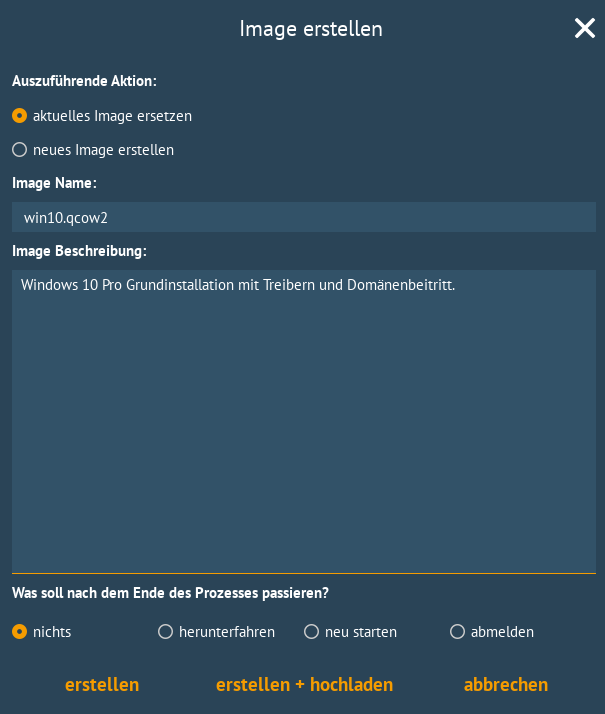
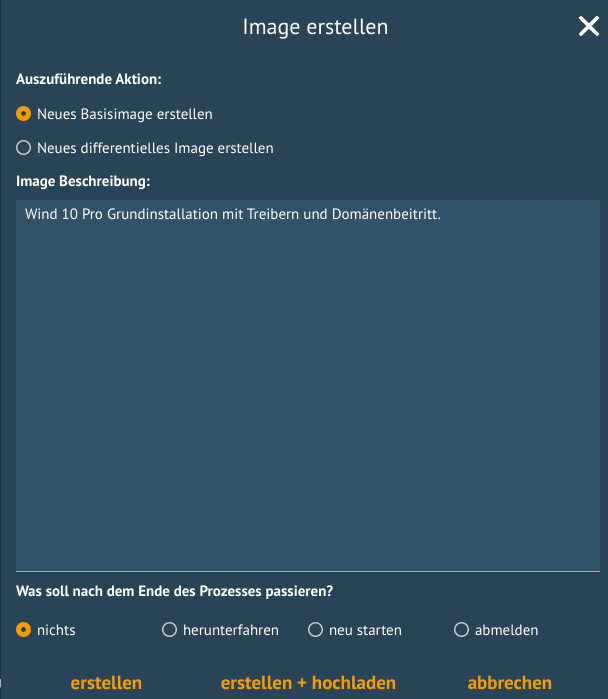
new chapter for creating differential images with linbo 4.1

diff --git a/source/clients/use_linbo4/index.rst b/source/clients/use_linbo4/index.rst
@@ -296,6 +296,112 @@ Mit diesem Dialog kann ein erstmalig genutzer Rechner registriert werden. Dafür
 
    Bitte trage für die Rechnergruppe einen Namen ohne Bindestriche `` - `` ein.
 
+LINBO Differenzielles Image erstellen
+-------------------------------------
+
+.. hint::
+
+   Seit der Version LINBO 4.1 ist es möglich, differentielle Images zu erstellen.
+
+``Differentielle Images`` bauen auf einem Vollimage eines Client-Betriebssystems auf und legen alle Änderungen / Ergänzungen seit dem letzten Image ab. Diese werden dann bei einer Synchronisation des Clients vollständig angewendet.
+
+Werden nur kleine Ergänzungen auf dem Client vorgenommen, kann ein differenzielles Image erstellt werden, um das Verteilen der Änderungen möglichst schnell für alle Clients einer Hardware-Klasse durchzuführen. Für die Aktualisierung der Clients werden so, deutlich weniger Daten via Netzwerk übertragen.
+
+Sollten für ein Basisimage bereits mehrere differenzielle Images erstellt worden sein, so kann es sinnvoll sein, wenn viel neue Software installiert wurde, diese wieder duch Erstellung eines Vollimages zu konsolidieren.
+
+Vorbereitungen
+^^^^^^^^^^^^^^
+
+Der betreffende Muster-Client wurde entsprechend angepasst und alle erforderlichen Schritte zur Erstellung eines Images auf Client-Seite durchgeführt.
+
+Für Linux-Clients ist z.B. der Befehl
+
+.. code::
+
+  sudo linuxmuster-linuxclient7 prepare-image
+
+auszuführen.
+
+Danach ist der Client neu zu starten.
+
+Image erstellen
+^^^^^^^^^^^^^^^
+
+Erscheint die LINBO GUI:
+
+.. figure:: media/linbo-diff-images/01-linbo-gui.png
+   :align: center
+   :alt: Linbo GUI
+
+
+Wähle rechts das Werkzeug-Icon aus.
+
+.. figure:: media/linbo-diff-images/02-tools-icon.png
+   :align: left
+   :alt: Tools Icon
+
+Es erscheint ein neues Fenster, in dem Du das Passwort des Linbo-Admins eingeben musst, um dich zu authentifizieren.
+
+.. figure:: media/linbo-diff-images/03-linbo-password.png
+   :align: center
+   :alt: Linbo Password
+
+Das Kennwort ist bei Eingabe nicht sichtbar. Klicke auf ``Anmelden``. Es erscheint das Werkzeug-Menü.
+
+.. figure:: media/linbo-diff-images/04-linbo-tools-menue.png
+   :align: center
+   :alt: Linbo Tools Menue
+
+Zur Erstellung eines differenziellen Images klicke nun auf das große Icon zur Erstellung eines Images.
+
+.. figure:: media/linbo-diff-images/05-icon-new-image.png
+   :align: center
+   :alt: Linbo New Image
+
+Es erscheint das Menü zur Erstellung neuer oder differenzieller Images.
+
+.. figure:: media/linbo-diff-images/06-menue-new-image.png
+   :align: center
+   :alt: Linbo Menue for Imaging
+
+
+Wähle die Option ``Neues differenzielles Image erstellen`` aus, trage eine nachvollziehbare Beschreibung für das Image als Text ein.
+
+Wähle zur Erstellung des differenziellen Images den Eintrag ``erstellen + hochladen`` aus, damit zuerst auf dem Client das Image erstellt und dieses im Anschluss auf den Server geladen wird.
+
+.. figure:: media/linbo-diff-images/07-image-create-and-upload.png
+   :align: center
+   :alt: Create + Upload Image
+
+Es werden bei der Erstellung des Images in der Linbo-GUI weitere Status-Meldungen angezeigt. Ist der Prozess der Erstellung und das Hochladen des differenziellen Images auf den Server abgeschlossen, siehst Du folgende Meldung:
+
+.. figure:: media/linbo-diff-images/08-finished-uploading-new-image.png
+   :align: center
+   :alt: Image Creation finished
+
+
+Starte im Anschluss LINBO neu, indem Du das entsprechende Icon auswählst:
+
+.. figure:: media/linbo-diff-images/09-reboot-linbo.png
+   :align: center
+   :alt: Reboot Linbo
+
+Image synchronisieren
+^^^^^^^^^^^^^^^^^^^^^
+
+Nachdem LINBO neu gestartet wurde, erscheint wieder die LINBO-GUI.
+
+.. figure:: media/linbo-diff-images/10-linbo-boot-icons.png
+   :align: center
+   :alt: Linbo Boot Icons
+
+Wende nun das differenzielle Image auf den Client an, indem Du das grosse Icon zur Synchronisation des Images klickst. Während der lokale Cache aktualisiert wird, siehst Du eine entsprechende Status-Leiste mit dem Fortschritt.
+
+.. figure:: media/linbo-diff-images/11-sync-image.png
+   :align: left
+   :alt: Image Creation finished
+
+Das differenzielle Image wird vom Server geholt und lokal im Cache des Clients angewendet. Danach wird der Client gestartet.
 
 Boot-Bildschirme in LINBO
 -------------------------
